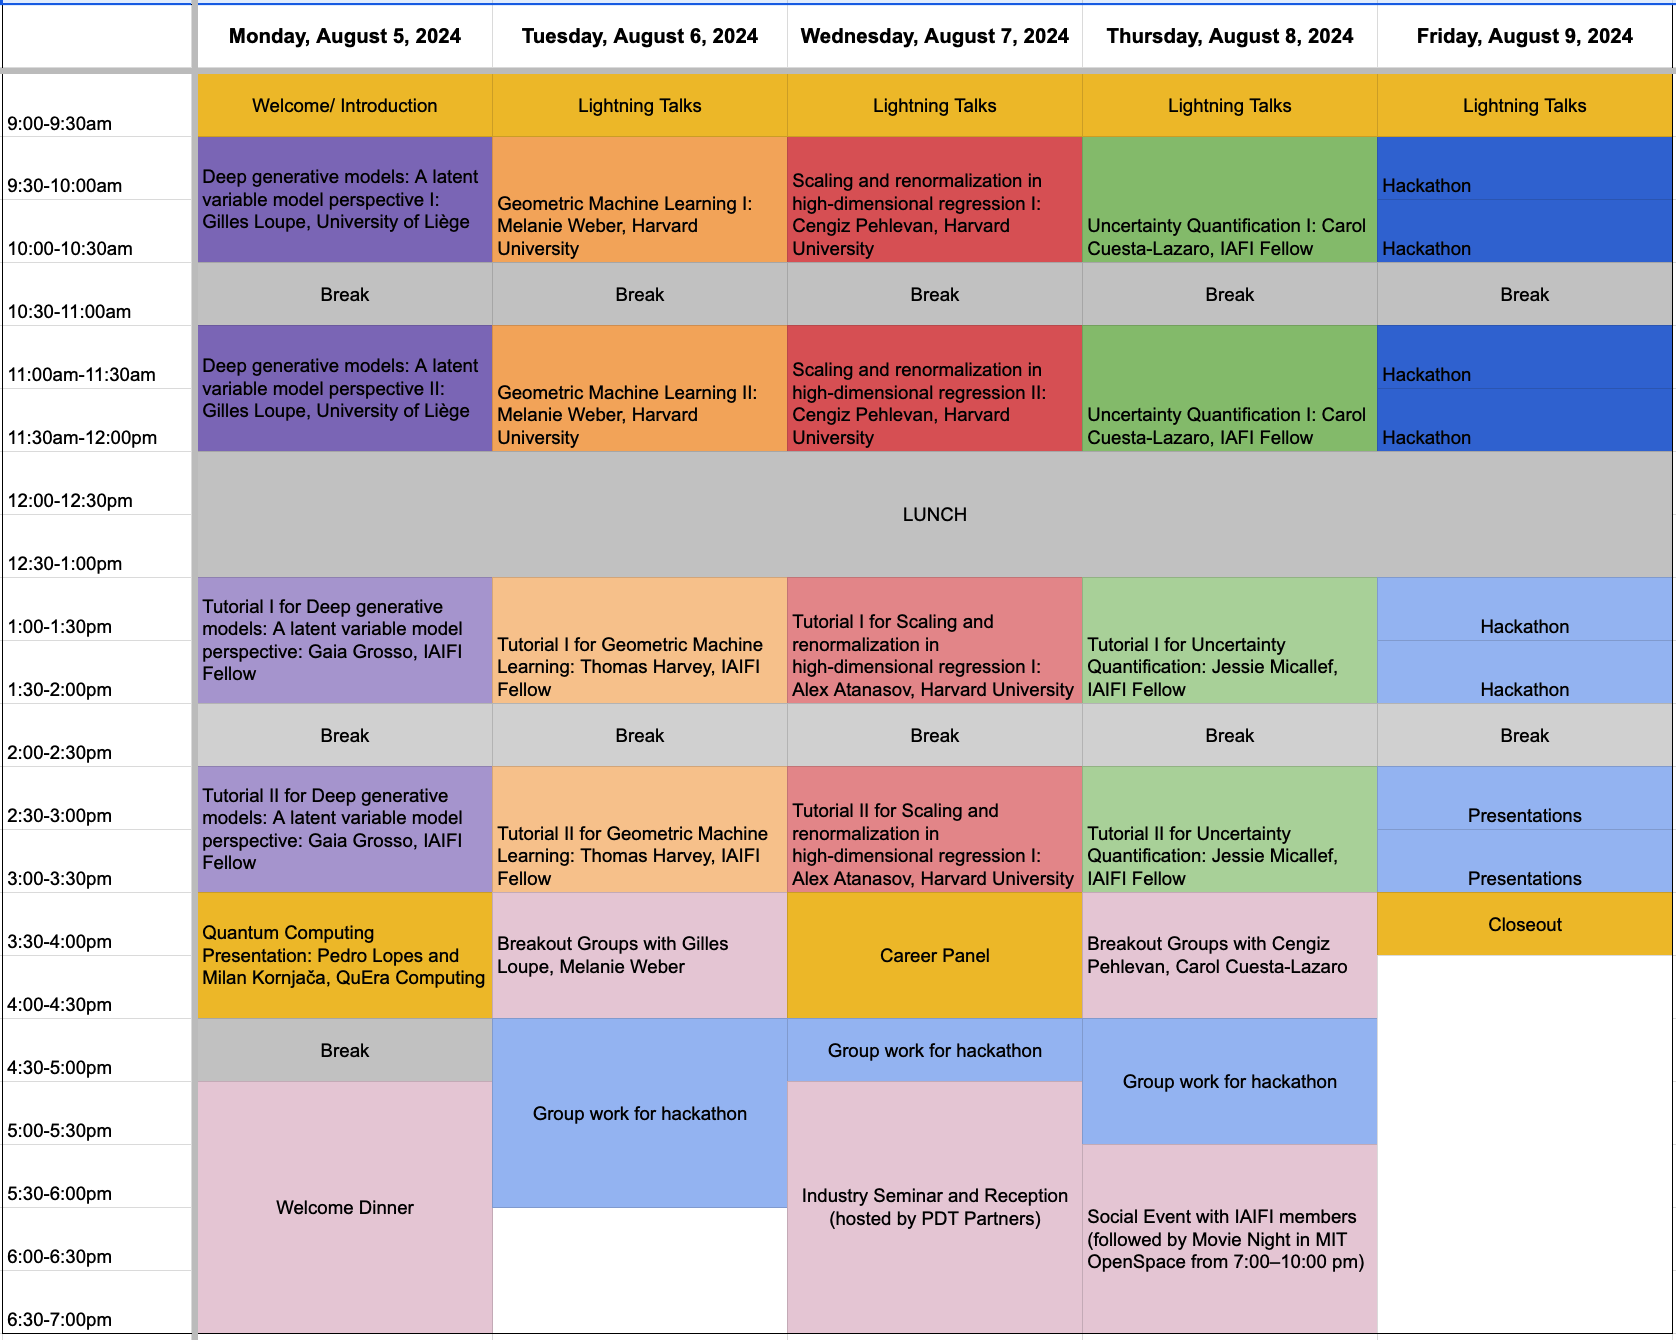
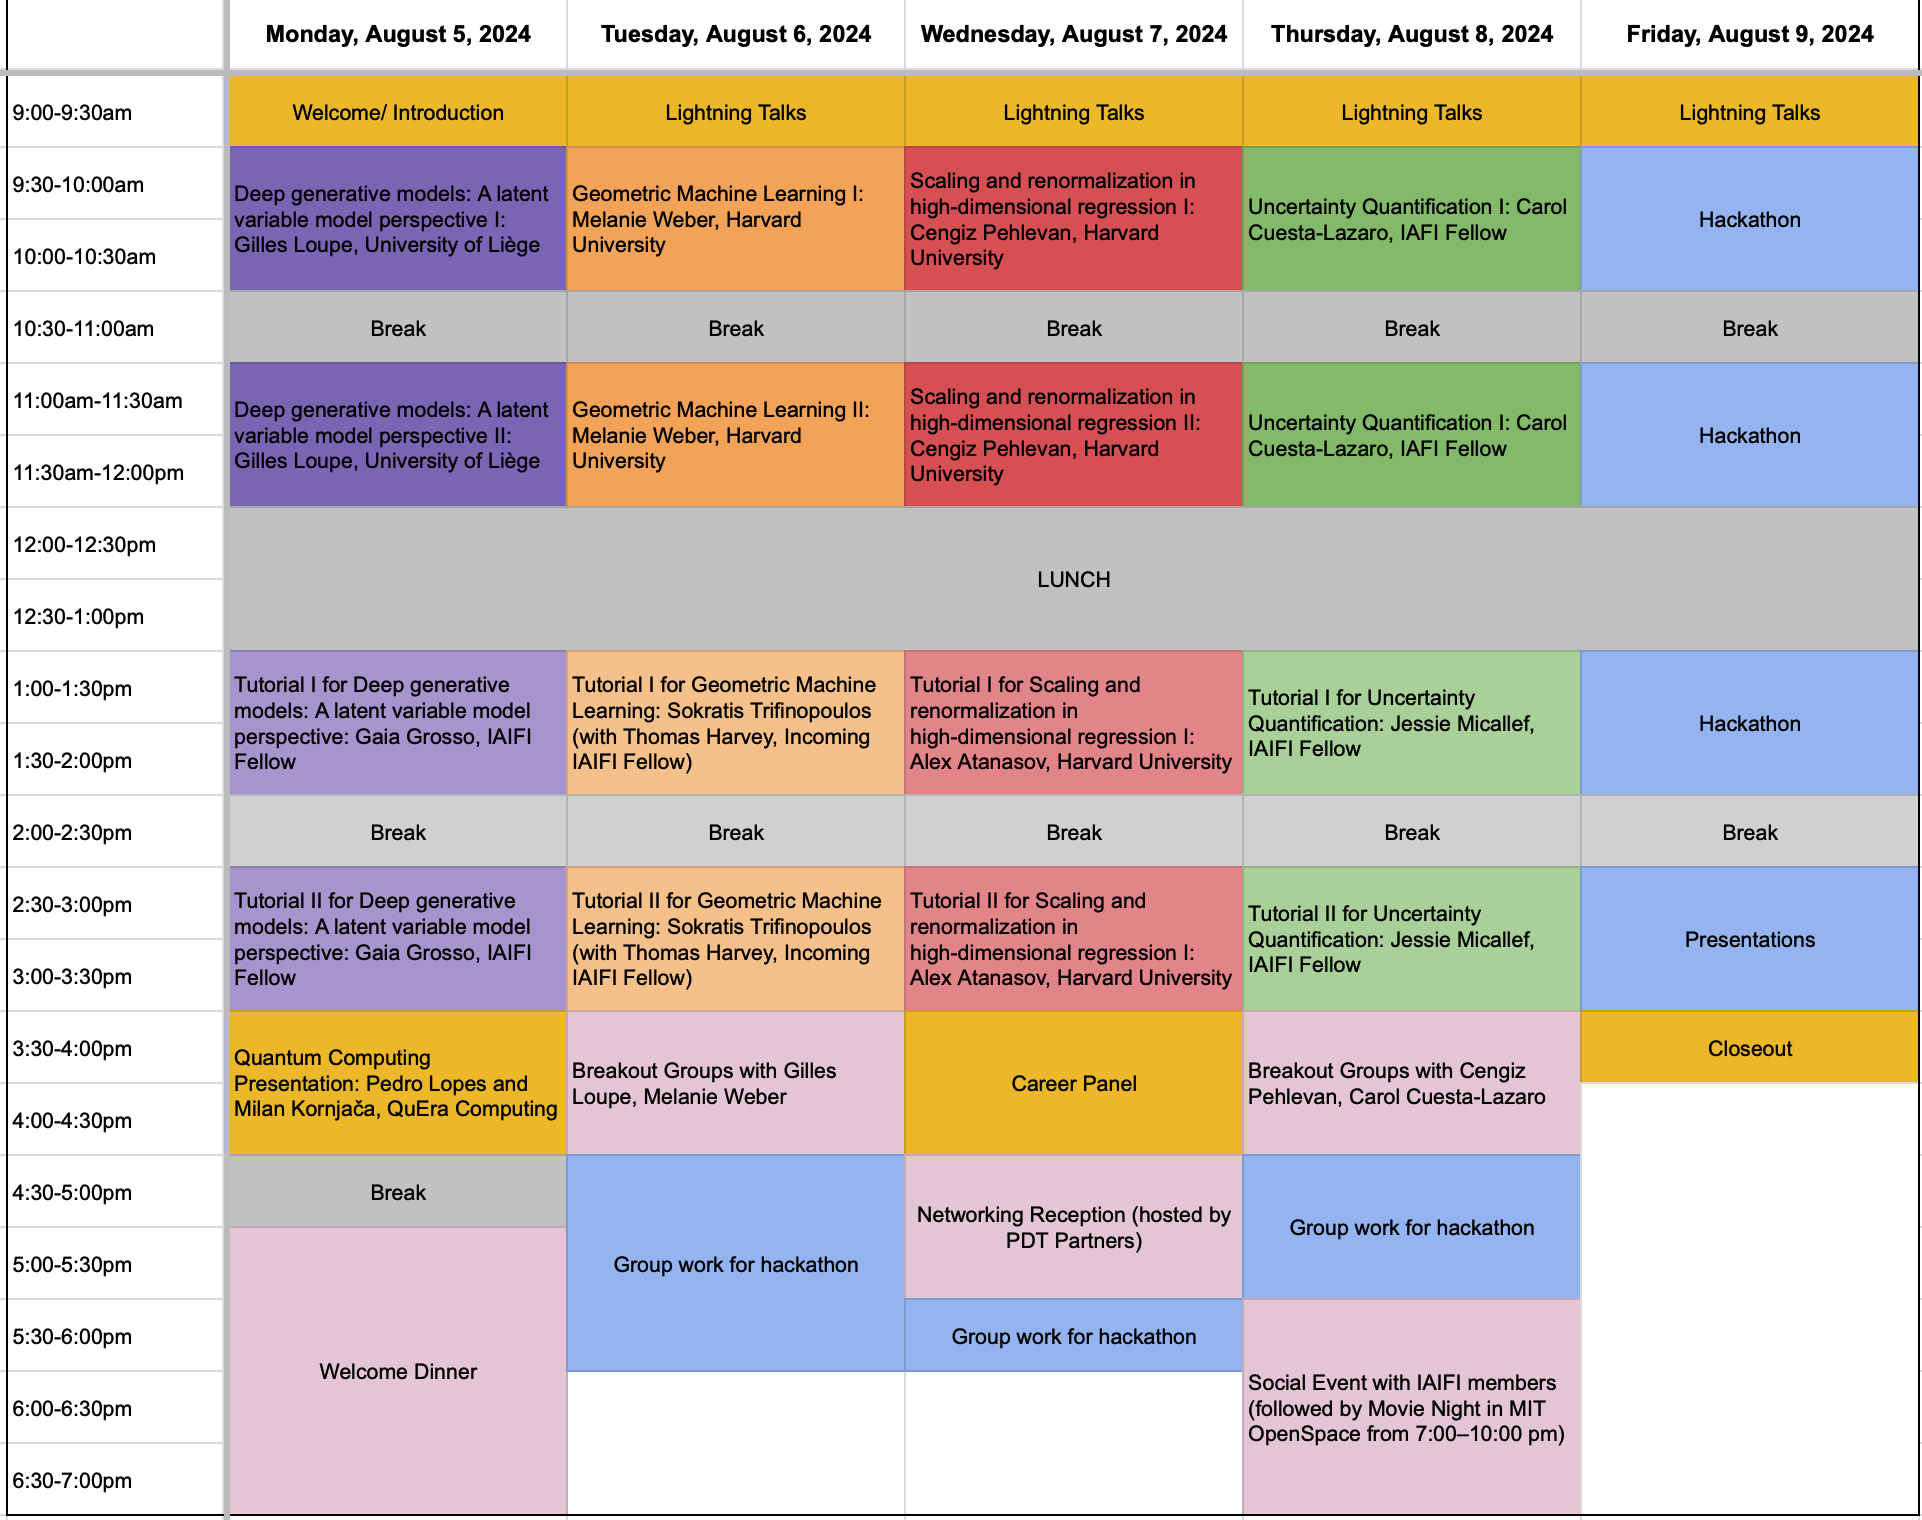
Updating Summer School schedule

diff --git a/phd-summer-school.md b/phd-summer-school.md
@@ -97,7 +97,7 @@ Lecture 1: Deep generative models: A latent variable model perspective, Gilles L
 
 <details>
 <summary>Abstract</summary>
-<em>Abstract to come</em>
+<em>Deep generative models are probabilistic models that can be used as simulators of the data. They are used to generate samples, perform inference, or encode complex priors. In this lecture, we will review the principles of deep generative models from the unified perspective of latent variable models, covering variational auto-encoders, diffusion models, latent diffusion models, and normalizing flows. We will discuss the principles of variational inference, the training of generative models, and the interpretation of the latent space. Selected applications from scientific domains will also be presented.</em>
 </details>
 
 **12:00–1:00 pm ET**
@@ -165,7 +165,7 @@ Lecture 3: Scaling and renormalization in high-dimensional regression, Cengiz Pe
 
 <details>
 <summary>Abstract</summary>
-<em>Abstract to come.</em>
+<em>From benign overfitting in overparameterized models to rich power-law scalings in performance, simple ridge regression displays surprising behaviors sometimes thought to be limited to deep neural networks. This balance of phenomenological richness with analytical tractability makes ridge regression the model system of choice in high-dimensional machine learning. In this set of lectures, I will present a unifying perspective on recent results on ridge regression using the basic tools of random matrix theory and free probability, aimed at researchers with backgrounds in physics and deep learning. I will highlight the fact that statistical fluctuations in empirical covariance matrices can be absorbed into a renormalization of the ridge parameter. This “deterministic equivalence” allows us to obtain analytic formulas for the training and generalization errors in a few lines of algebra by leveraging the properties of the S-transform of free probability. From these precise asymptotics, we can easily identify sources of power-law scaling in model performance. In all models, the S-transform corresponds to the train-test generalization gap, and yields an analogue of the generalized-cross-validation estimator.</em>
 </details>
 
 **12:00–1:00 pm ET**
@@ -199,18 +199,9 @@ Career Panel
 
 ### Thursday, August 8, 2024
 
-**4:30–5:00 pm ET**
+**4:30–5:30 pm ET**
 
-Group work for hackathon
-
-**5:00–7:00 pm ET**
-
-Industry Seminar and Reception hosted by PDT Partners
-
-<details>
-<summary>Details</summary>
-<em>Details to come.</em>
-</details>
+Networking Reception sponsored by PDT Partners
 
 **9:00–9:30 am ET**
 
@@ -218,11 +209,11 @@ Lightning Talks
 
 **9:30 am–12:00 pm ET**
 
-Lecture 4: Uncertainty Quantification, Carol Cuesta-Lazaro
+Lecture 4: Simulation-Based Inference for Modern Scientific Discovery, Carol Cuesta-Lazaro
 
 <details>
 <summary>Abstract</summary>
-<em>Abstract to come.</em>
+<em>In this lecture, we will explore the foundations and applications of simulation-based inference (SBI) methods, demonstrating their efficiency in solving inverse problems across scientific disciplines. We'll introduce key approaches to SBI, including Neural Likelihood Estimation (NLE), Neural Posterior Estimation (NPE), and Neural Ratio Estimation (NRE), while highlighting their connections to data compression, density estimation, and generative models. Throughout the lecture, we'll address practical considerations such as computational efficiency and scalability to high-dimensional problems. We'll also examine recent advancements in the field, such as sequential methods and differentiable calibration, empowering attendees with the knowledge to adapt and customize these algorithms to their specific research challenges and constraints. </em>
 </details> 
 
 **12:00–1:00 pm ET**
@@ -290,9 +281,13 @@ Closing
 
 
 ## Financial Supporters
+The Summer School is funded primarily by support from the National Science Foundation under Cooperative Agreement PHY-2019786. Computing resources are provided by the NSF ACCESS program.
+
 We extend a sincere thank you to the following financial supporters of this year's IAIFI Summer School:
 
 [<img src="images/visa-logo.png" align="center" style="max-width:10355px;width:30%" hspace="10" vspace="10">](https://usa.visa.com/) [<img src="images/quera-logo.jpg" align="center" style="max-width:8080px;width:30%" hspace="10" vspace="10">](https://www.quera.com) [<img src="images/PDT_logo.png" align="center" style="max-width:8080px;width:30%" hspace="10" vspace="10">](https://pdtpartners.com)
+
+We are also grateful to [Foundry](https://www.mlfoundry.com) for providing compute as a prize for the hackathon.
 
 ## 2024 Organizing Committee 
 * Fabian Ruehle, Chair (Northeastern University)
